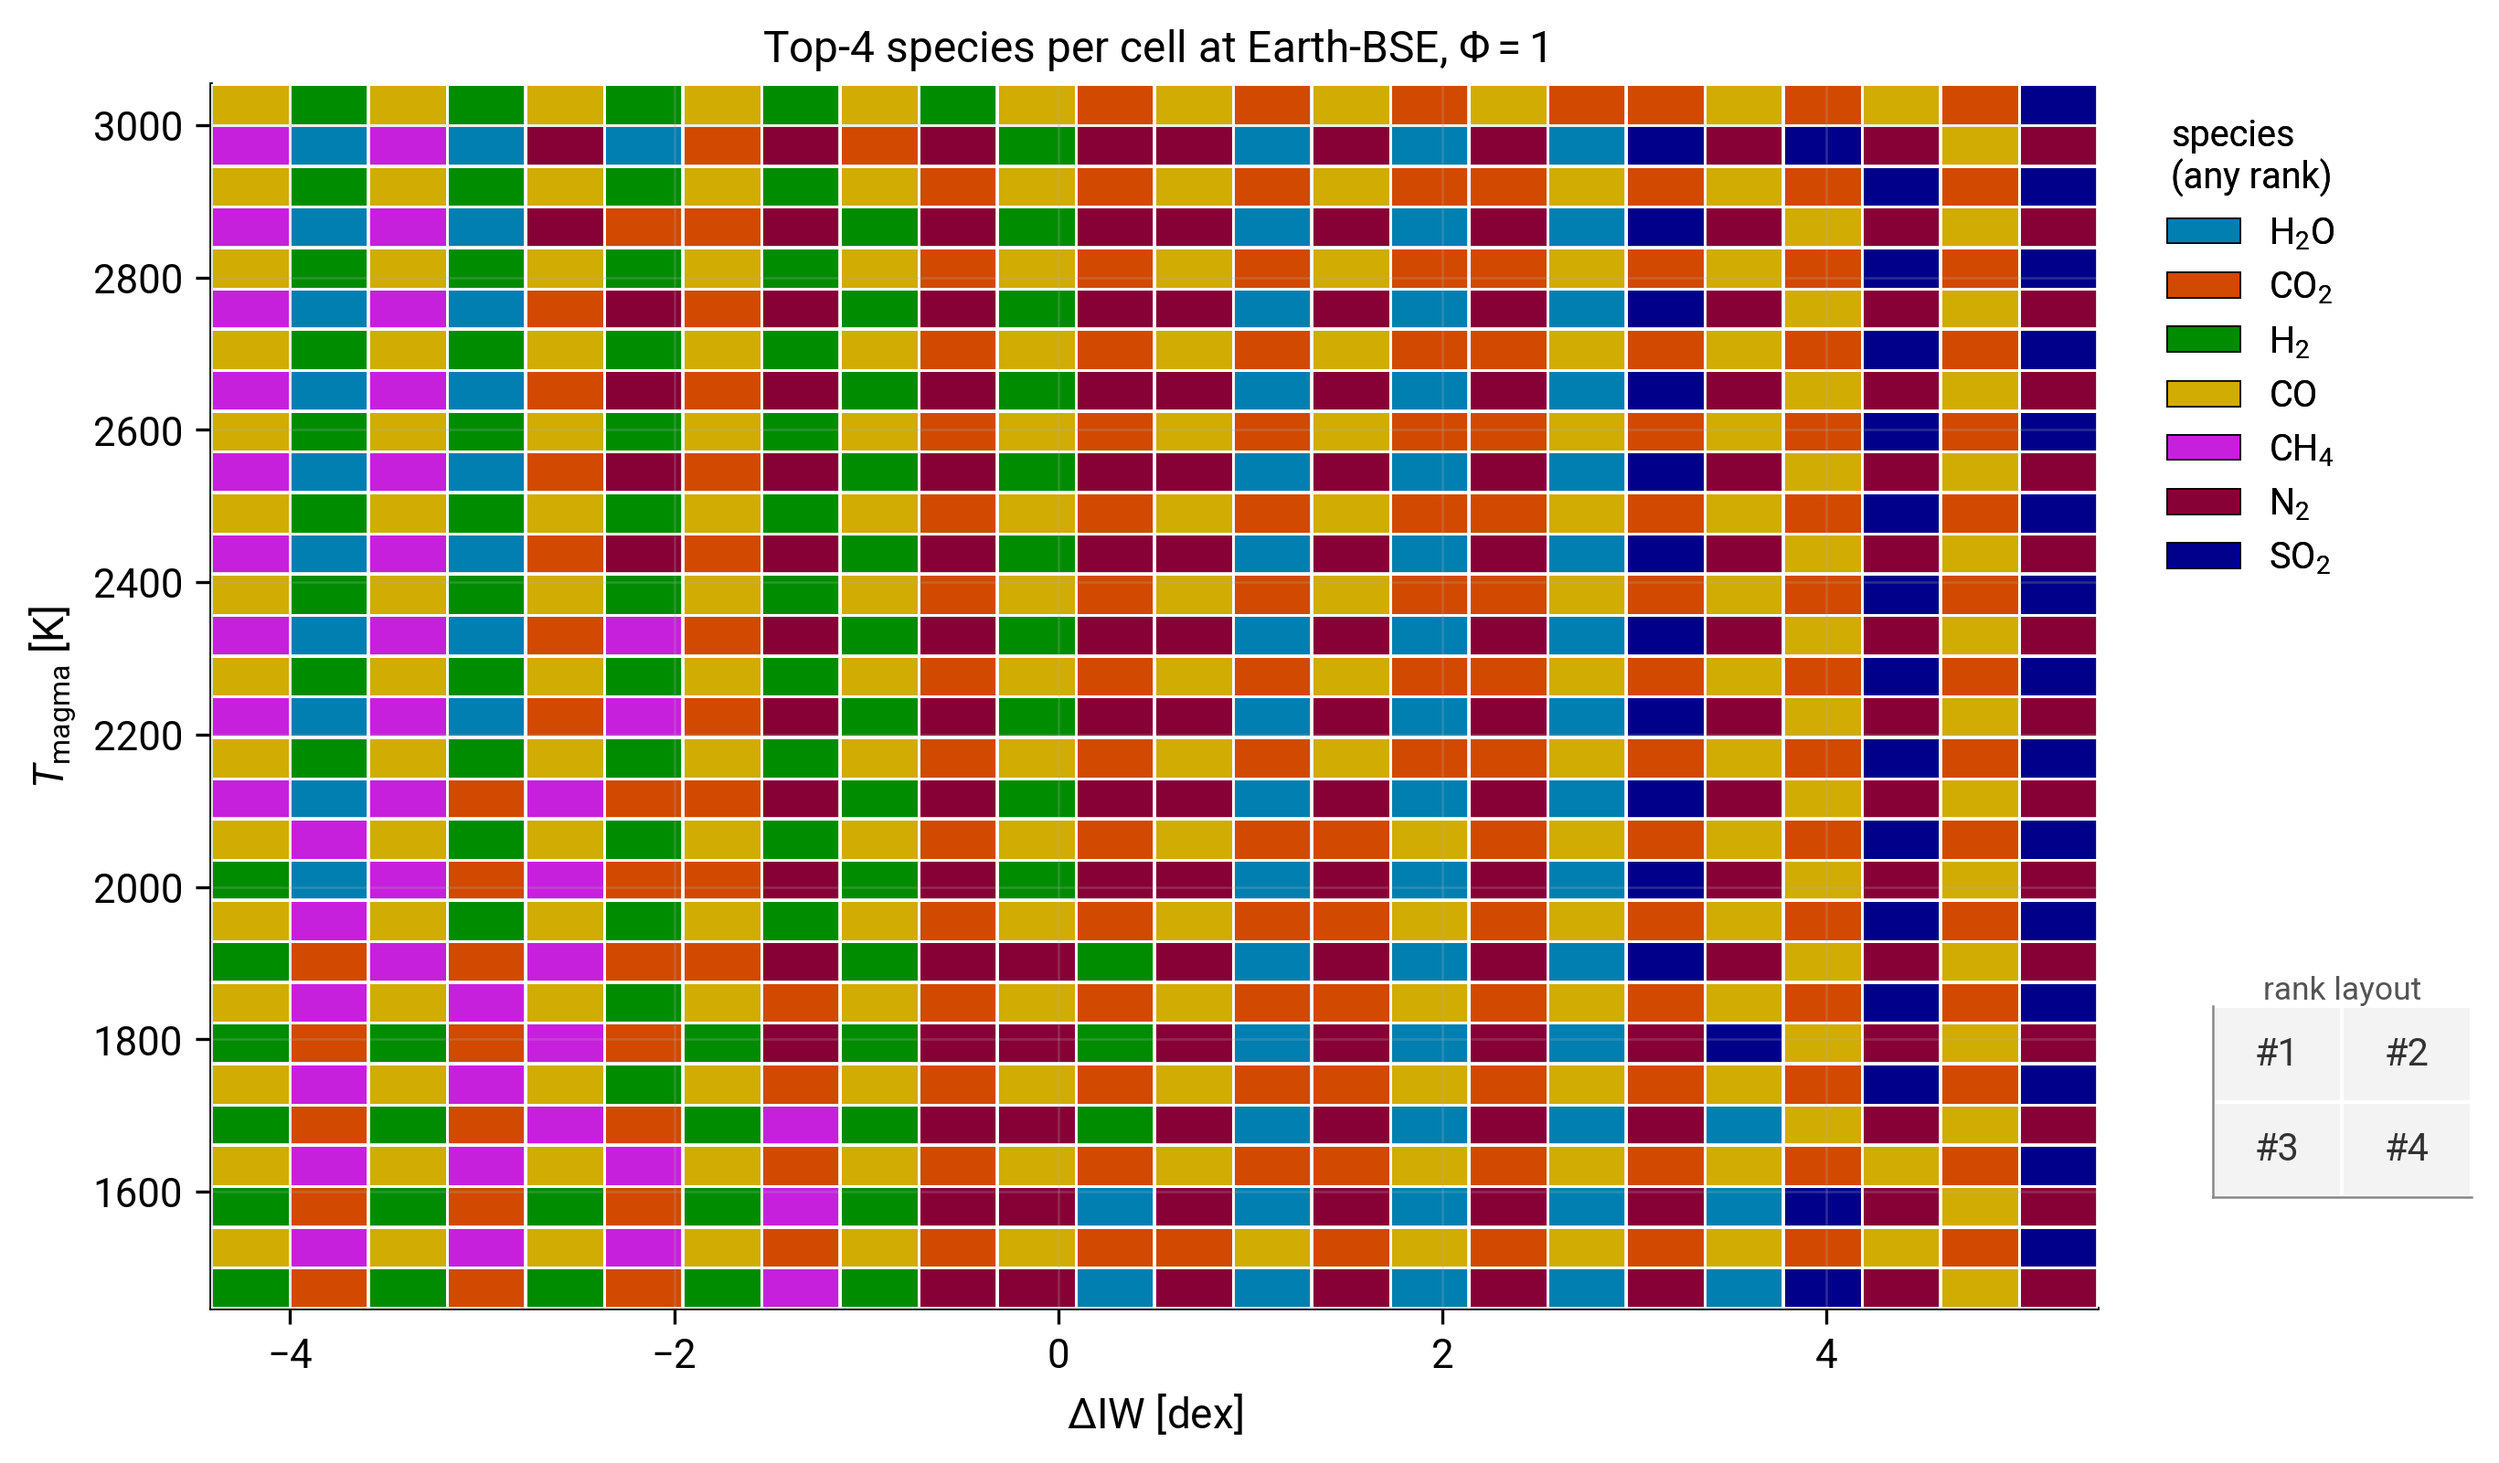
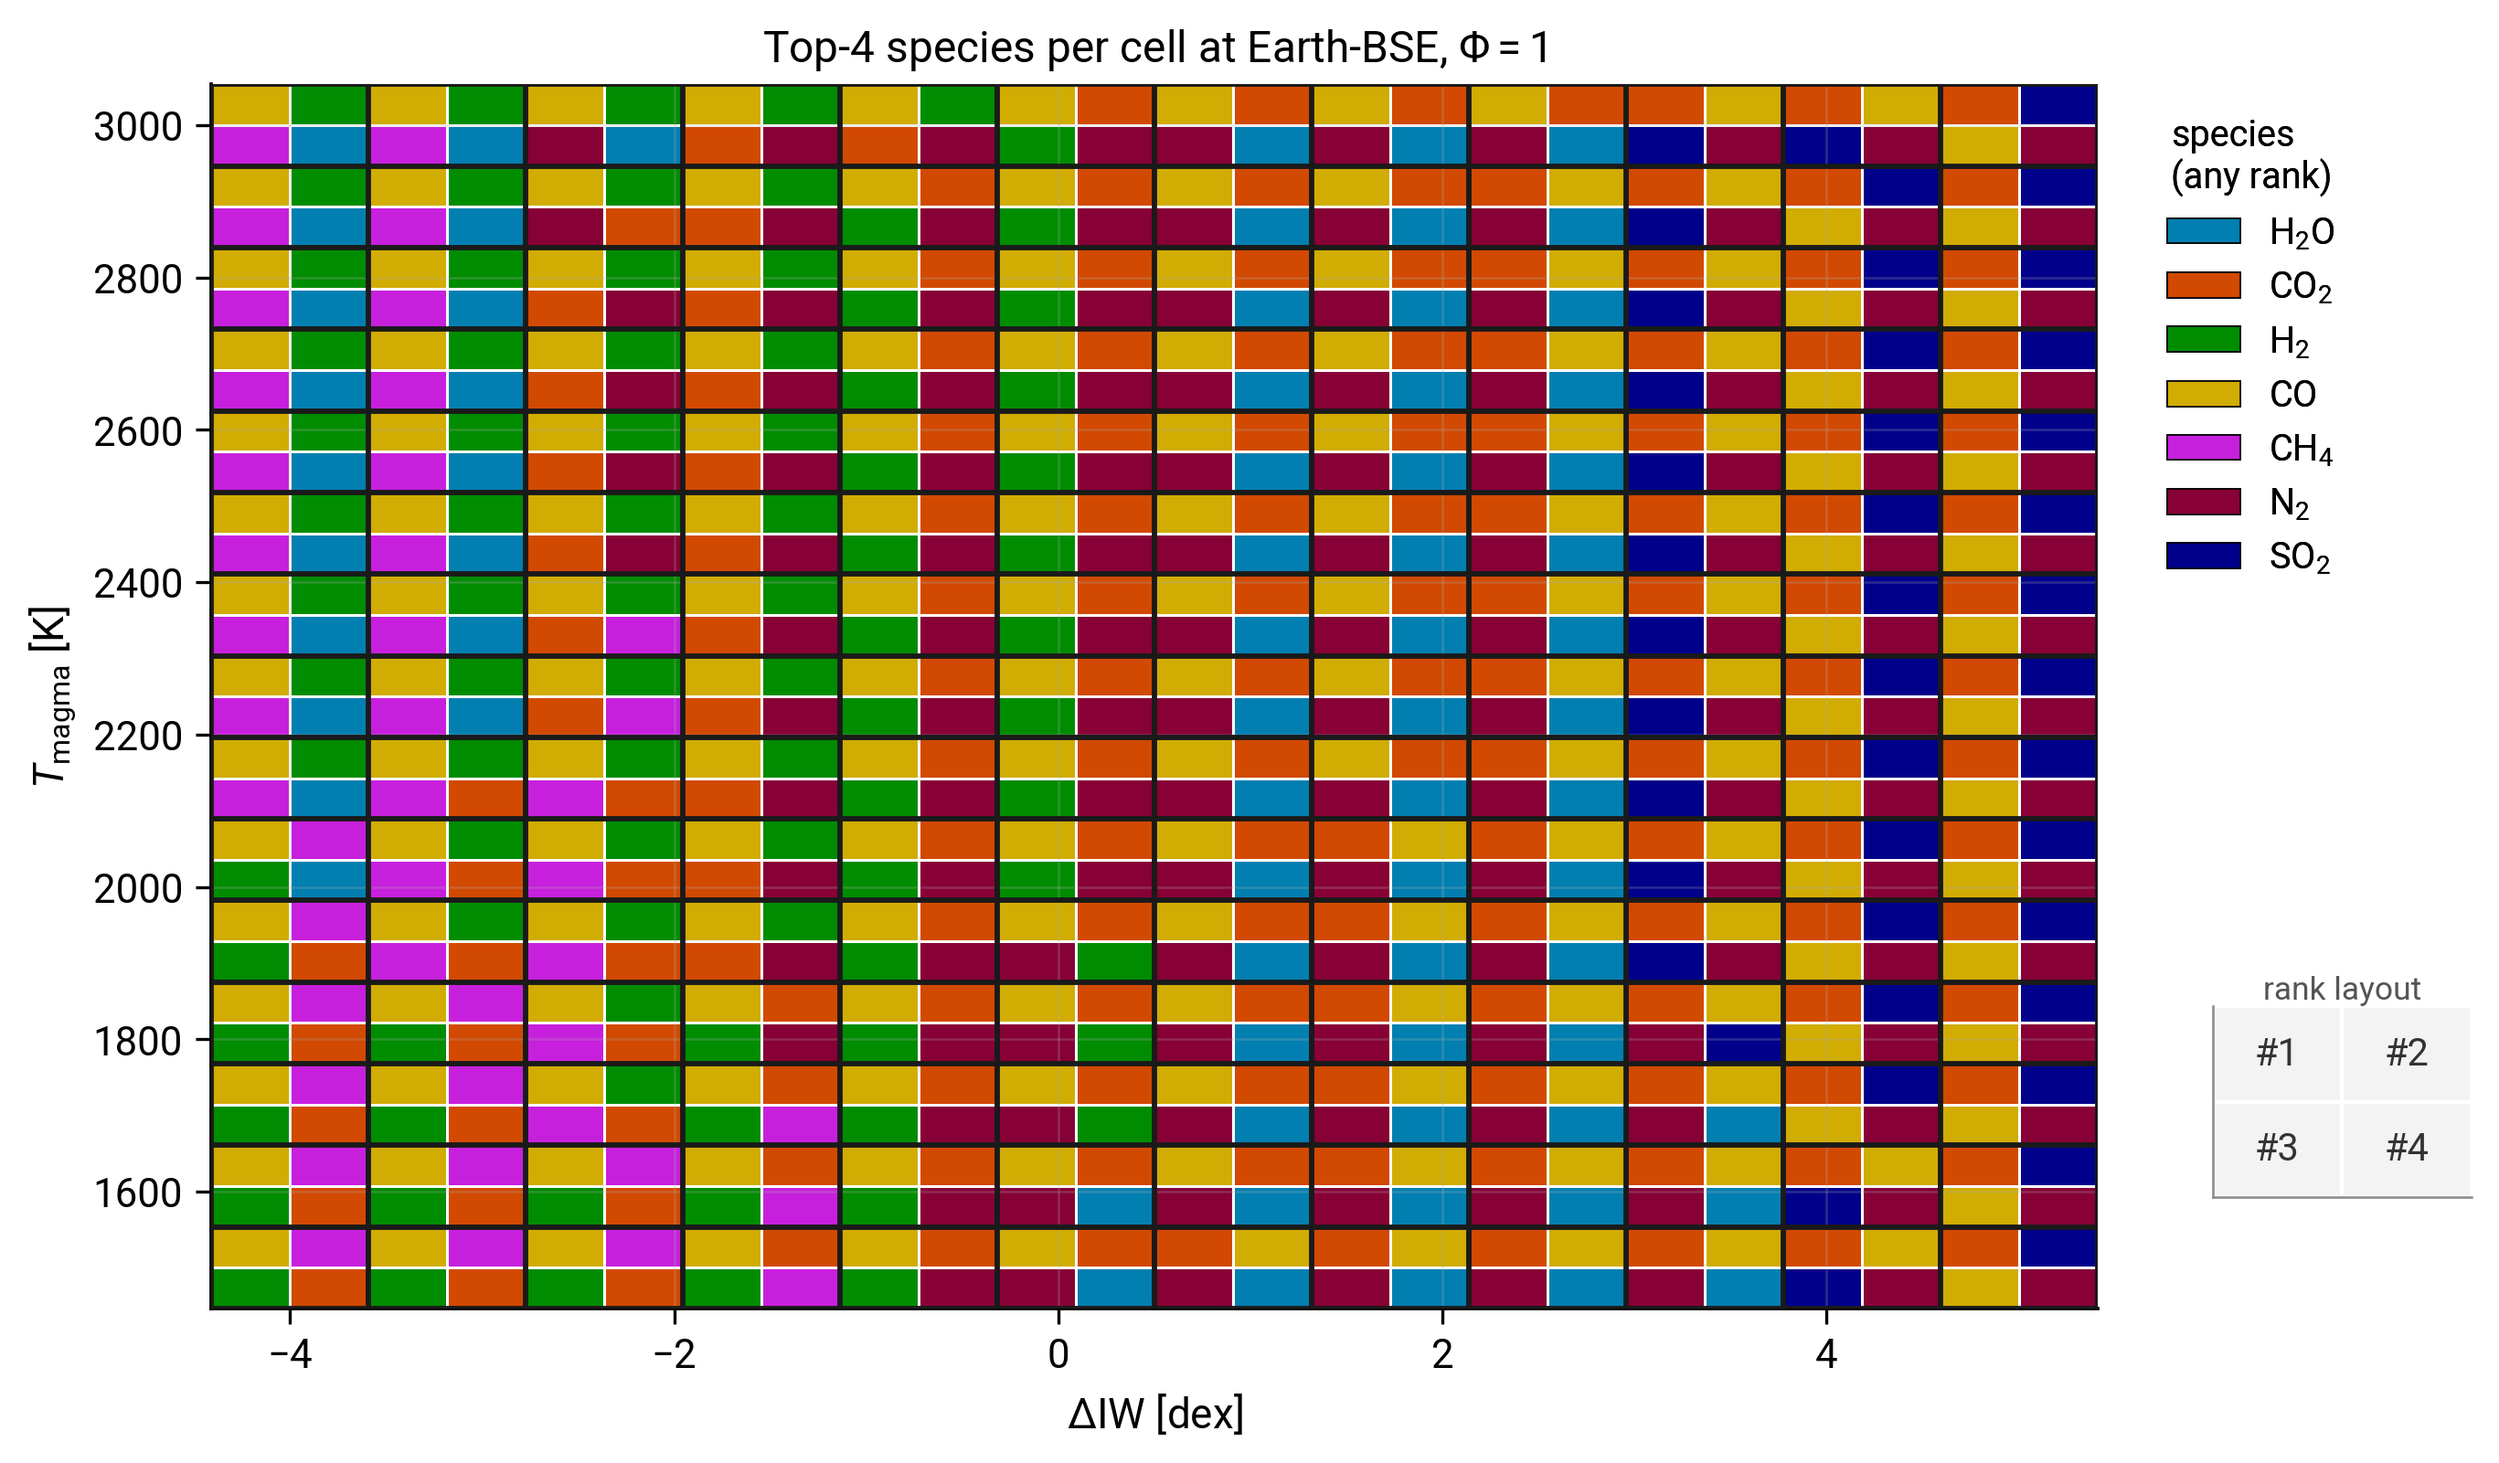
Add dark borders around each phase-diagram simulation cell
The 2-by-2 sub-cell subdivision made it hard to tell where one
simulation ended and the next began: the four rank quadrants of one
cell blended visually into the four quadrants of the neighbouring
cell. Replace the thin white outer separators with a dark
(linewidth 1.4, near-black) border around every original (T, dIW)
cell. The inner rank-quadrant seams stay light so the top-1 / top-2 /
top-3 / top-4 positions inside each simulation are still readable.

diff --git a/scripts/tutorials/fig_phase_diagram.py b/scripts/tutorials/fig_phase_diagram.py
@@ -167,11 +167,16 @@ def make_figure(data: dict | None = None) -> dict:
     )
     pcm.set_clim(-0.5, len(seen) - 0.5)
 
-    # Heavier gridlines between original cells (every other sub-edge).
+    # Dark border around every original (T, dIW) cell so the four
+    # sub-cells of one simulation are visually grouped and separated
+    # from the four sub-cells of the next. The inner sub-cell seams
+    # stay light (white, linewidth 0.35) so the rank quadrants inside
+    # each simulation still read clearly.
+    sim_edge_kw = dict(color='#1a1a1a', linewidth=1.4, alpha=1.0, zorder=5)
     for x in d_edges[::2]:
-        ax.axvline(x, color='white', linewidth=0.9, alpha=0.95, zorder=4)
+        ax.axvline(x, **sim_edge_kw)
     for y in t_edges[::2]:
-        ax.axhline(y, color='white', linewidth=0.9, alpha=0.95, zorder=4)
+        ax.axhline(y, **sim_edge_kw)
     ax.set_xlim(d_edges[0], d_edges[-1])
     ax.set_ylim(t_edges[0], t_edges[-1])
 
